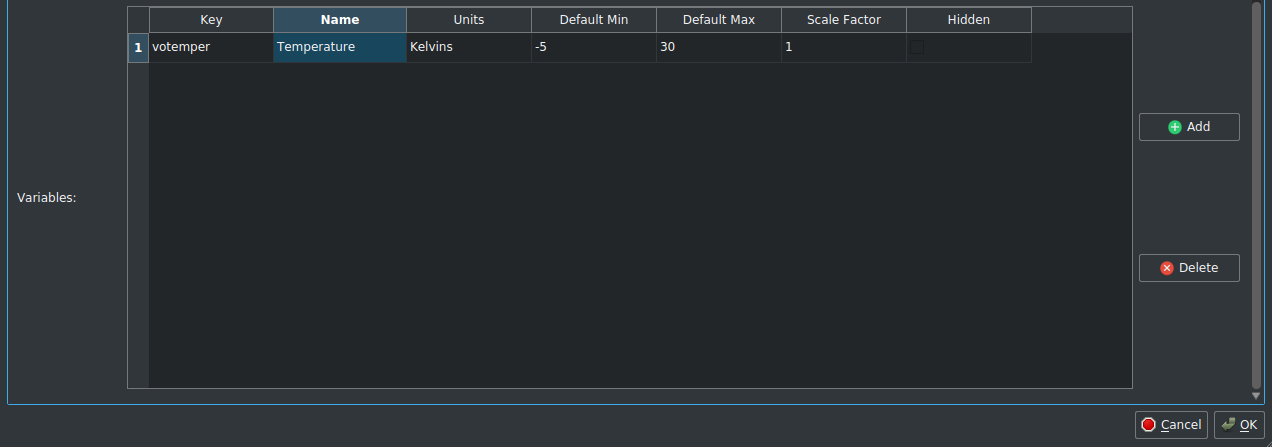
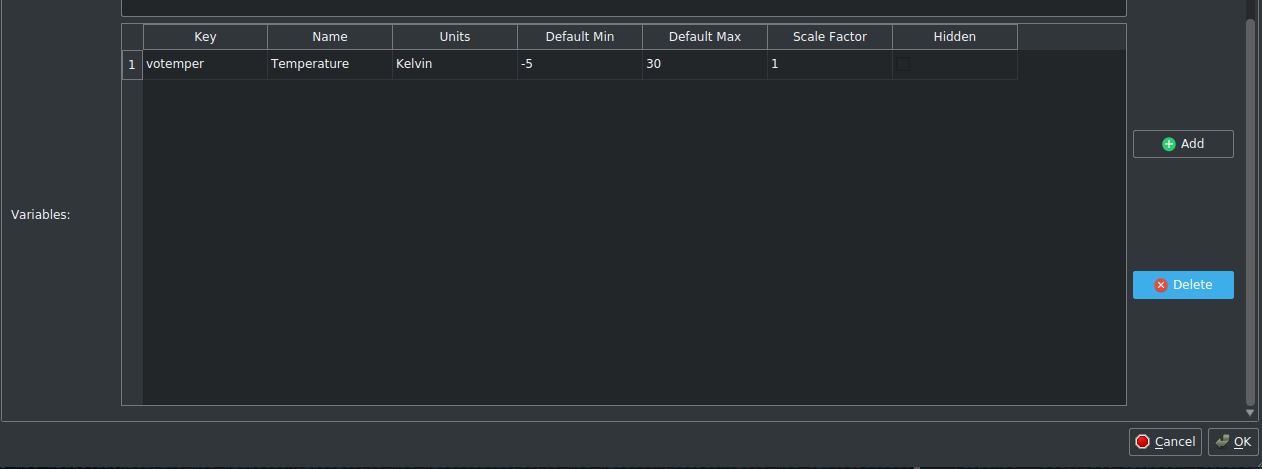
Updated pics

diff --git a/index.html b/index.html
@@ -149,8 +149,12 @@
               <p>After a fresh install, the Navigator is hungry! Let's give it some data to digest :P</p>
               <ul>
                 <li>Click on the <i>Data Order</i> tab.</li>
+                <li>Leave the <i>Region of Interest</i> unchanged. Read the FAQs on how to change it.</li>
                 <li>Under <i>2. Remote Datasets</i>, double-click on <i>GIOPS Daily</i>.</li>
-                <li>A new window will appear allowing you to configure the download properties. If you hover over the labels on the left-hand side, you can get some additional information.</li>
+                <li>
+                  A new window will appear allowing you to configure the download properties. If you hover over the labels on the left-hand side, you can get some additional information: <br />
+                  <img src="img/datasetPropertiesTooltip.png" class="img-fluid" alt="Dataset Properties Tooltip">
+                </li>
                 <li>In this new window, scroll to the <i>Variable Selection</i> area.</li>
                 <li>Click on <i>Temperature</i>.</li>
                 <li>Select a date range for the data. <strong>Note:</strong> There is a limit to the selectable date range according to the <i>Quantum</i> attribute:
@@ -164,7 +168,9 @@
                   <img src="img/downloadQueue.png" class="img-fluid" alt="Download Queue">
                 </li>
                 <li>Click the <i>Download Data</i> button to start the download process.</li>
-                <li>Unfortunately now is when things get slightly more complex...</li>
+              </ul>
+              <p>Unfortunately now is when things get slightly more complex...</p>
+              <ul>
                 <li>
                   Since we are downloading a new dataset, Navigator2Go doesn't know where to put the downloaded files. If you have lots of storage space available, or only have
                   the 1 drive, the recommended directory for any download is as follows: <code>/opt/thredds_content/data/&lt;dataset_name&gt;</code>. For this example, enter the following:
@@ -196,10 +202,7 @@
                   <li>Click on the <i>Dashboard</i> tab.</li>
                   <li>Start the <i>THREDDS Server (Apache Tomcat)</i> in the top-left hand box. You should see some output in your console.</li>
                   <li>Click on the <i>Dataset Config Editor</i> tab.</li>
-                  <li>Click on <i>Load Custom File</i>.</li>
-                  <li>Double-click on the <i>oceannavigator</i> folder.</li>
-                  <li>Double-click on <i>datasetconfigOFFLINE.json</i>.</li>
-                  <li>You will now see the <i>Active Config File</i> label in the top-left corner change to <i>datasetconfigOFFLINE.json</i>.</li>
+                  <li>Click on <i>Load Default File</i>.</li>
                   <li>Click on <i>Add Dataset</i>.</li>
                   <li>Enter <i>giops_day</i>.<br />
                     <img src="img/newDatasetKey.png" class="img-fluid" alt="New Dataset key">
@@ -222,6 +225,7 @@
                     Click on <i>votemper</i> and click <i>OK</i>.
                   </li>
                   <li>There will be a new entry in the <i>Variables</i> table. Doule-click on <i>Name</i> and change it to <i>Temperature</i>.
+                    Change <i>Units</i> to <i>Kelvin</i> (no <i>s</i> at the end).
                     Also change <i>Default Min</i> to -5, and <i>Default Max</i> to 30.<br />
                     <img src="img/editDatasetVariables.png" class="img-fluid" alt="Dataset Variables">
                   </li>
